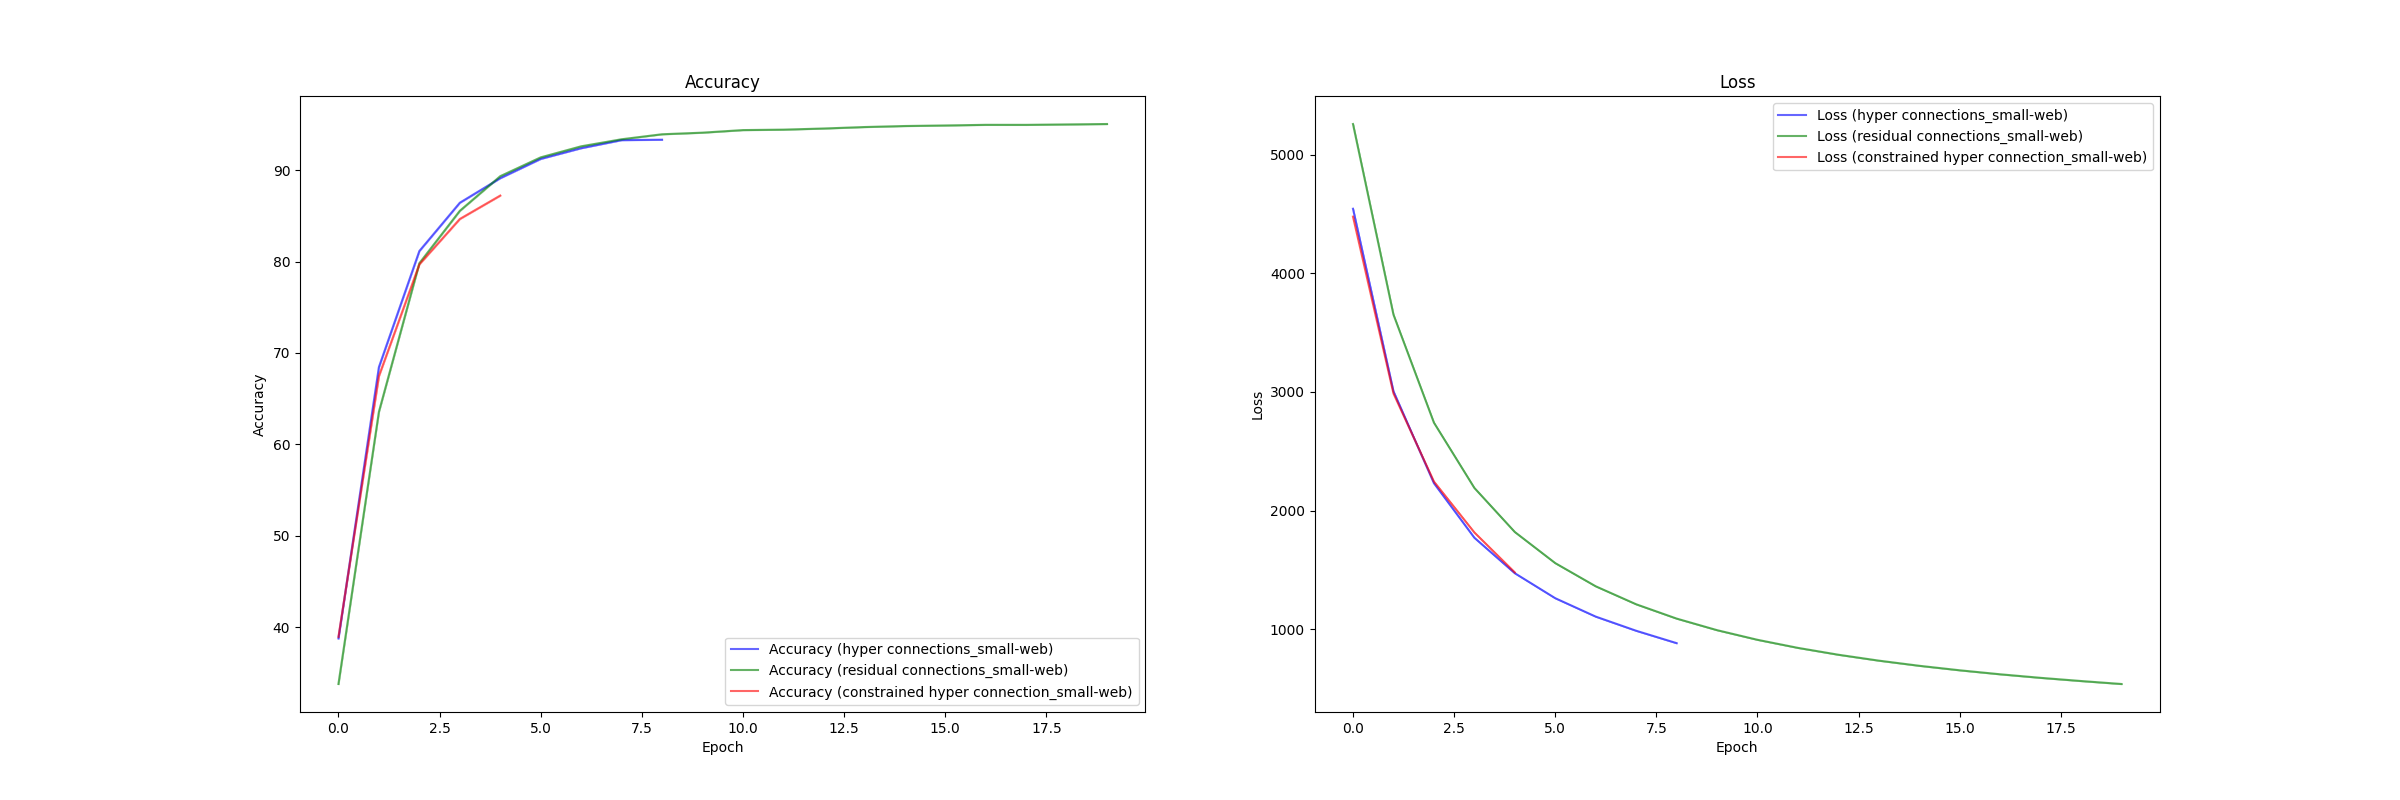
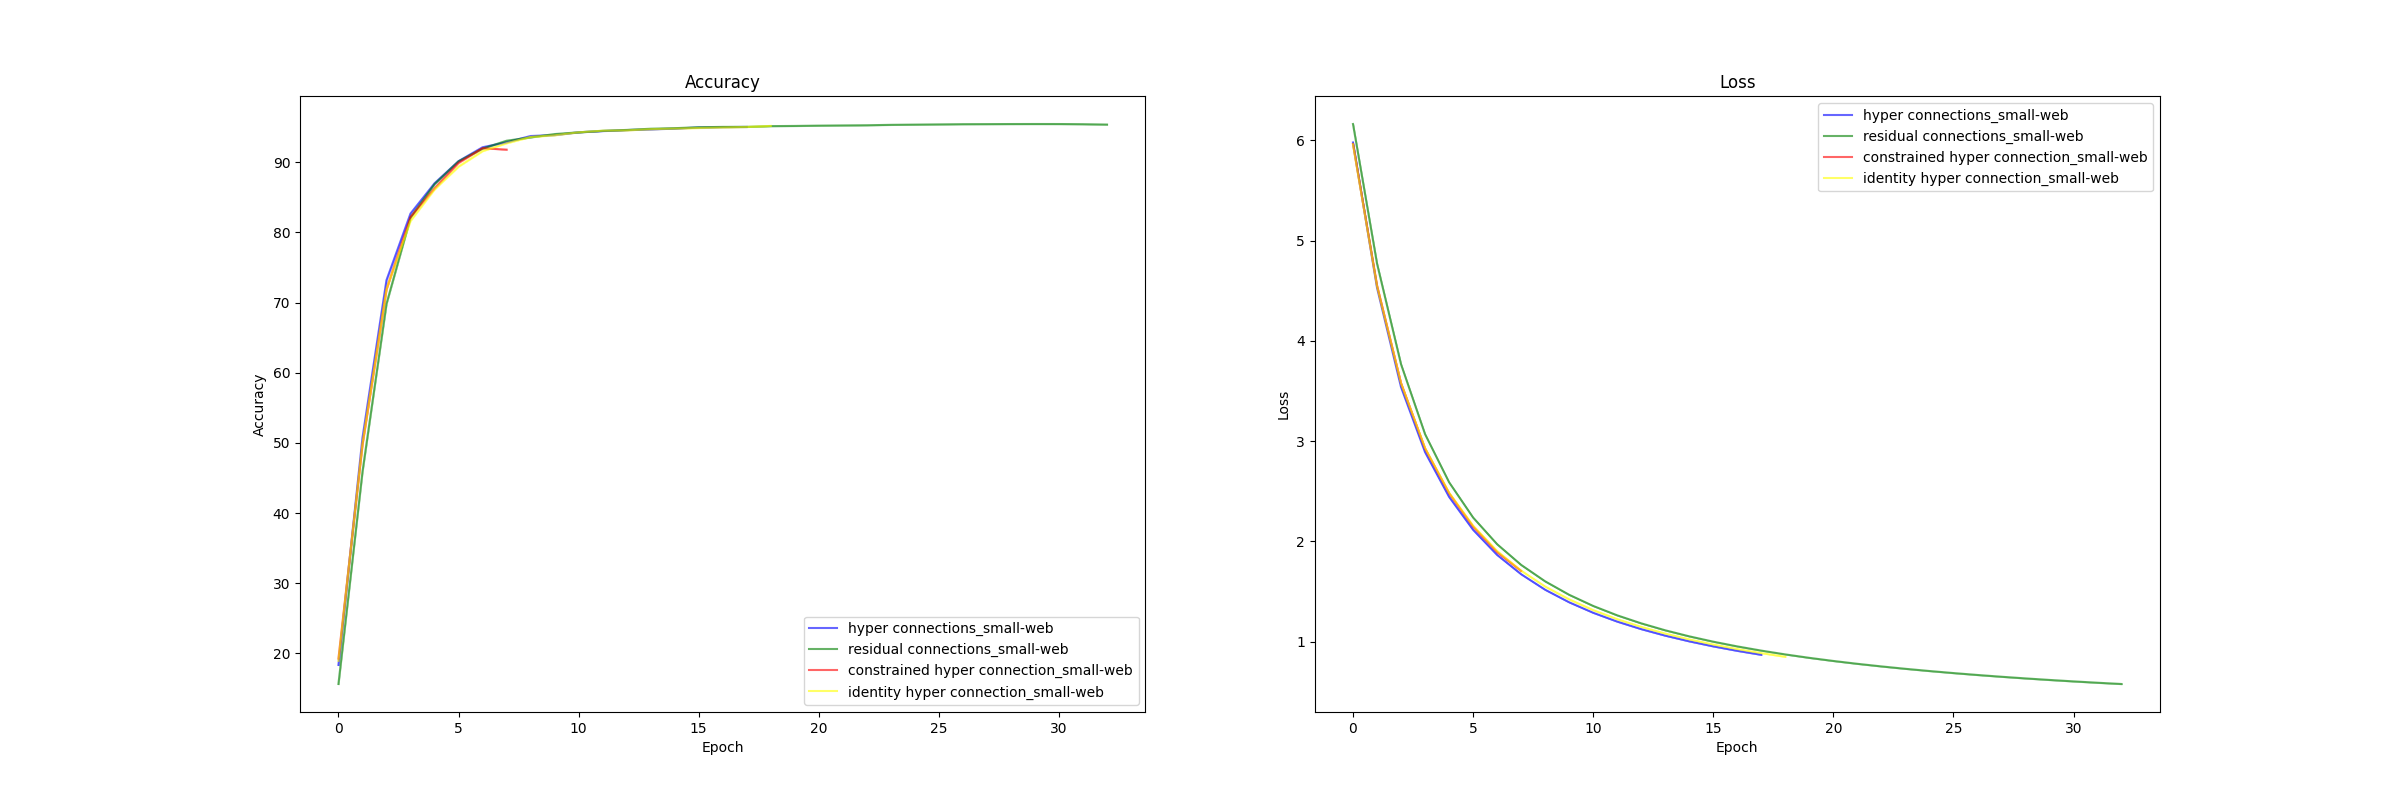
mHC without the m

diff --git a/nlp/transformer-hacks/experiments.py b/nlp/transformer-hacks/experiments.py
@@ -33,6 +33,8 @@ import torch
 from utils.web_dataloader import WebDataloader
 from dotenv import load_dotenv
 from torch.distributed.fsdp import FullyShardedDataParallel as FSDP
+from torch.distributed.fsdp.wrap import size_based_auto_wrap_policy
+from functools import partial
 from torch.nn.parallel import DistributedDataParallel as DDP
 import torch.distributed as dist
 from dataclasses import dataclass
@@ -64,15 +66,20 @@ IS_RUNNING_DISTRIBUTED = "MASTER_ADDR" in os.environ
 DISTRIBUTED_STRATEGY = os.environ.get("PARALLEL_STRATEGY", "DDP")  # .lower()
 NUM_PROCESSES = int(os.environ.get("NUM_PROCESS", 8))
 USE_GRAD_SCALER = bool(int(os.environ.get("USE_GRAD_SCALER", "1")) == "1")
-TRAINING_TIME_MINUTES = int(os.environ.get("TRAINING_TIME_MINUTES", "180"))
+TRAINING_TIME_MINUTES = int(os.environ.get("TRAINING_TIME_MINUTES", "60"))
 DEBUG = int(os.environ.get("DEBUG", "0")) == 1
+BATCH_SIZE = os.environ.get("BATCH_SIZE", None)
 
-EPOCHS = 10_000
+EPOCHS = int(os.environ.get("NUM_EPOCHS", 10_000))
 SAMPLE_SIZE = 1
 LEARNING_RATE = 3e-4
 
 rank = int(os.environ.get("RANK", 0))
 world_size = int(os.environ.get("WORLD_SIZE", 1))
+
+
+def _batch_size(default: int) -> int:
+    return int(BATCH_SIZE) if BATCH_SIZE is not None else default
 
 
 TARGET_DATASET = os.environ.get("TARGET_DATASET", "small-web").lower()
@@ -82,98 +89,98 @@ NAMED_DATASETS = {
         WebDataloader(
             os.environ["WEB_DATALOADER"],
             "satoshi-whitepaper",
-            batch_size=256,
+            batch_size=_batch_size(256),
             rank=rank,
             world_size=world_size,
         ),
         WebDataloader(
             os.environ["WEB_DATALOADER"],
             "smedium-web-256",
-            batch_size=110,
+            batch_size=_batch_size(110),
             rank=rank,
             world_size=world_size,
         ),
         WebDataloader(
             os.environ["WEB_DATALOADER"],
             "medium-web-256-v2",
-            batch_size=32,
+            batch_size=_batch_size(32),
             rank=rank,
             world_size=world_size,
         ),
         WebDataloader(
             os.environ["WEB_DATALOADER"],
             "small-web-1024",
-            batch_size=8,
+            batch_size=_batch_size(8),
             rank=rank,
             world_size=world_size,
         ),
         WebDataloader(
             os.environ["WEB_DATALOADER"],
             "small-web",
-            batch_size=256,
+            batch_size=_batch_size(256),
             rank=rank,
             world_size=world_size,
         ),
         WebDataloader(
             os.environ["WEB_DATALOADER"],
             "medium-web",
-            batch_size=1024,
+            batch_size=_batch_size(1024),
             rank=rank,
             world_size=world_size,
         ),
         WebDataloader(
             os.environ["WEB_DATALOADER"],
             "medium-512-web",
-            batch_size=64,
+            batch_size=_batch_size(64),
             rank=rank,
             world_size=world_size,
         ),
         WebDataloader(
             os.environ["WEB_DATALOADER"],
             "smoltalk-256",
-            batch_size=110,
+            batch_size=_batch_size(110),
             rank=rank,
             world_size=world_size,
         ),
         WebDataloader(
             os.environ["WEB_DATALOADER"],
             "self-oss-instruct-sc2-H4-256",
-            batch_size=110,
+            batch_size=_batch_size(110),
             rank=rank,
             world_size=world_size,
         ),
         WebDataloader(
             os.environ["WEB_DATALOADER"],
             "everyday-conversations-256",
-            batch_size=110,
+            batch_size=_batch_size(110),
             rank=rank,
             world_size=world_size,
         ),
         WebDataloader(
             os.environ["WEB_DATALOADER"],
             "medium-clean-web-256",
-            batch_size=32,
+            batch_size=_batch_size(32),
             rank=rank,
             world_size=world_size,
         ),
         WebDataloader(
             os.environ["WEB_DATALOADER"],
             "large-clean-web-256",
-            batch_size=32,
+            batch_size=_batch_size(32),
             rank=rank,
             world_size=world_size,
         ),
         WebDataloader(
             os.environ["WEB_DATALOADER"],
             "opcode-tokens-256",
-            batch_size=32,
+            batch_size=_batch_size(32),
             rank=rank,
             world_size=world_size,
         ),
         WebDataloader(
             os.environ["WEB_DATALOADER"],
             "fineweb-256",
-            batch_size=32,
+            batch_size=_batch_size(32),
             rank=rank,
             world_size=world_size,
         ),
@@ -347,7 +354,8 @@ class ExperimentDistributed:
             model = DDP(model, device_ids=[dist.get_rank()])
             print("Using DDP for distributed training")
         elif DISTRIBUTED_STRATEGY == "FDSP":
-            model = FSDP(model, device_ids=[dist.get_rank()])
+            wrap_policy = partial(size_based_auto_wrap_policy, min_num_params=1_000)
+            model = FSDP(model, device_id=dist.get_rank(), auto_wrap_policy=wrap_policy)
             print("Using FSDP for distributed training")
         else:
             raise Exception(f"Unknown DISTRIBUTED_STRATEGY = {DISTRIBUTED_STRATEGY}")
@@ -578,6 +586,10 @@ def residual_connections():
             (
                 "constrained hyper connection",
                 TransformerLayerType.OLMO_CONSTRAINED_HYPER_CONNECTIONS,
+            ),
+            (
+                "identity hyper connection",
+                TransformerLayerType.OLMO_IDENTITY_HYPER_CONNECTIONS,
             ),
         ]:
             config = create_default_config(
@@ -1212,7 +1224,7 @@ def long_running_training_v2():
 
 
 def train():
-    # residual_connections()
+    residual_connections()
     # long_running_training()
     # lr_sweep()
     # lr_sweep_v2()
@@ -1220,7 +1232,7 @@ def train():
     # layer_scaling()
     # embedding_scaling()
     # ff_scaling()
-    long_running_training_v2()
+    # long_running_training_v2()
     # continue_training_from_checkpoint()
     # fine_tuning()
     # benchmark()

diff --git a/nlp/transformer-hacks/training/model.py b/nlp/transformer-hacks/training/model.py
@@ -39,6 +39,7 @@ class TransformerLayerType(Enum):
     OLMO = 9
     OLMO_HYPER_CONNECTIONS = 10
     OLMO_CONSTRAINED_HYPER_CONNECTIONS = 11
+    OLMO_IDENTITY_HYPER_CONNECTIONS = 12
 
 
 class NormalizationLayerType(Enum):
@@ -338,11 +339,11 @@ class SimpleAttentionAtHomeTransformerLayer(nn.Module):
 
 # https://arxiv.org/pdf/2512.24880
 # Deepseek builds on top of the hyperConnection, but adds a step to normalize
-def sinkhorn(H, iterations=20):
+def sinkhorn(H, iterations=20, eps=1e-8):
     P = torch.exp(H)
     for _ in range(iterations):
-        P = P / P.sum(dim=-1, keepdim=True)
-        P = P / P.sum(dim=-2, keepdim=True)
+        P = P / (P.sum(dim=-1, keepdim=True) + eps)
+        P = P / (P.sum(dim=-2, keepdim=True) + eps)
     return P
 
 
@@ -375,6 +376,36 @@ class mHyperConnection(nn.Module):
             "nm,bsmd->bsnd", A_r, H
         )
 
+        return out
+
+
+# https://zhuanlan.zhihu.com/p/2010852389670908320
+# https://x.com/YouJiacheng/status/2027445155587141997
+# https://x.com/unakar666/status/2027566637319393412
+# https://x.com/part_harry_/status/2007070327415902268
+class IdentityHyperConnection(nn.Module):
+    def __init__(self, n: int = 4, layer_idx: int = 0):
+        super().__init__()
+        self.n = n
+        alpha_m = torch.zeros(n, 1)
+        alpha_m[layer_idx % n, 0] = 1.0
+        self.alpha_m = nn.Parameter(alpha_m)
+        self.beta = nn.Parameter(torch.ones(n))
+        # Fixed identity for A_r (not learnable)
+        self.register_buffer("A_r", torch.eye(n))
+
+    def forward(self, H: torch.Tensor, layer_fn) -> torch.Tensor:
+        # H: (B, S, n, D)
+        # Weighted sum of copies -> layer input
+        # (B, S, D)
+        h_in = torch.einsum("bsnd,nk->bskd", H, self.alpha_m).squeeze(2)
+        h_out = layer_fn(h_in)
+        # Bound beta with sigmoid
+        beta = torch.sigmoid(self.beta)
+        # Distribute output + residual (A_r is fixed identity)
+        out = h_out.unsqueeze(2) * beta.view(1, 1, self.n, 1) + torch.einsum(
+            "nm,bsmd->bsnd", self.A_r, H
+        )
         return out
 
 
@@ -459,7 +490,13 @@ class OlmoTransformerLayer(nn.Module):
 
 
 class OlmoTransformerLayerHyperConnectivity(nn.Module):
-    def __init__(self, config: Config, layer_idx: int, use_manifold_constraint=False):
+    def __init__(
+        self,
+        config: Config,
+        layer_idx: int,
+        use_manifold_constraint=False,
+        use_identity=False,
+    ):
         super().__init__()
         self.norm_1 = nn.RMSNorm(config.dim_embeddings)
         self.rope_attention = RoPEMultiheadAttention(
@@ -471,7 +508,14 @@ class OlmoTransformerLayerHyperConnectivity(nn.Module):
         self.norm_2 = nn.RMSNorm(config.dim_embeddings)
         self.linear = OlmoFeedForward(config)
 
-        if use_manifold_constraint:
+        if use_identity:
+            self.hc_attn = IdentityHyperConnection(
+                n=config.hc_n, layer_idx=layer_idx * 2
+            )
+            self.hc_mlp = IdentityHyperConnection(
+                n=config.hc_n, layer_idx=layer_idx * 2 + 1
+            )
+        elif use_manifold_constraint:
             self.hc_attn = mHyperConnection(n=config.hc_n, layer_idx=layer_idx * 2)
             self.hc_mlp = mHyperConnection(n=config.hc_n, layer_idx=layer_idx * 2 + 1)
         else:
@@ -534,6 +578,12 @@ def get_transformer_layer(config: Config, layer_idx):
     ):
         return OlmoTransformerLayerHyperConnectivity(
             config, layer_idx, use_manifold_constraint=True
+        )
+    elif (
+        config.transformer_layer == TransformerLayerType.OLMO_IDENTITY_HYPER_CONNECTIONS
+    ):
+        return OlmoTransformerLayerHyperConnectivity(
+            config, layer_idx, use_identity=True
         )
     else:
         raise Exception(f"unknown type {config.transformer_layer}")
@@ -658,6 +708,7 @@ class Model(nn.Module):
         if self.config.transformer_layer in [
             TransformerLayerType.OLMO_HYPER_CONNECTIONS,
             TransformerLayerType.OLMO_CONSTRAINED_HYPER_CONNECTIONS,
+            TransformerLayerType.OLMO_IDENTITY_HYPER_CONNECTIONS,
         ]:
             x = self.embeddings(x)
             H = x.unsqueeze(2).expand(-1, -1, self.config.hc_n, -1).contiguous()

diff --git a/nlp/transformer-hacks/utils/plot.py b/nlp/transformer-hacks/utils/plot.py
@@ -1,3 +1,5 @@
+import warnings
+warnings.filterwarnings("ignore", message="Unable to import Axes3D")
 import matplotlib.pyplot as plt
 import numpy as np
 from typing import Dict, List

diff --git a/notes/rants/timeline.md b/notes/rants/timeline.md
@@ -180,5 +180,37 @@ You can also very easily see that this is a problem as none of the models does w
 - 
 
 
-
-
+### Update from 2026
+- Many things have changed over the last few months.
+  - People are predicting 
+    - https://x.com/AISafetyMemes/status/2024520911043416441
+    - https://x.com/elonmusk/status/2025124840806514916
+    - https://ai-2027.com/
+    - https://x.com/banteg/status/2026056669843669184
+    - https://x.com/potuz_eth/status/2028627381901005250
+  - Dates
+    - https://x.com/AISafetyMemes/status/2023003611459203308
+    - https://x.com/swyx/status/2023246499866673195
+    - https://x.com/fchollet/status/2022090111832535354
+    - https://x.com/ChrSzegedy/status/2022187816172892424
+    - https://x.com/tetsuoai/status/2027202820919992734
+      - Work will be optional in 10 years?
+- I'm still not so sure (at least not over the next two years)
+  - I think models are going to keep getting better
+  - They will lack human agency
+  - They will lack the ability to be more critical of the requests of the user, they will act on inputs, but probably not be as good at thinking outside the box on the input.
+- That said, I'm also thinking about the fact that predictions have been very wrong in the past
+  - https://x.com/gordic_aleksa/status/2021625792288141620
+  - https://x.com/anupam_bhoi/status/2021774474861748482
+  - https://x.com/siddharthvader_/status/2021708306050584862
+- And then also this which also shows that all the hype doesn't directly correlate to real world impact
+  - https://x.com/fchollet/status/2022063228399005931
+  - https://x.com/ChShersh/status/2020484568860484055
+  - https://x.com/imnottanmay/status/2019543570013921631
+  - https://x.com/fchollet/status/2019571942148472899
+  - https://x.com/fede_intern/status/2017604878575587421
+  - (to be seen) https://x.com/FleetmasterE/status/2014691020769001693
+  - https://x.com/joranhonig/status/2022657343574389094
+    - LLM know so much, but suck at things like Chess.
+- There is also the general [prediction power of people](https://x.com/fchollet/status/2020497629290148139) which is kinda interesting.
+- 

diff --git a/notes/nlp.md b/notes/nlp.md
@@ -152,3 +152,18 @@ def sinkhorn(H, iterations=20):
     return P
 ```
 
+### Response
+- There has been some threads on Twitter on the need for the manifold constraint at all.
+  - https://x.com/part_harry_/status/2007070327415902268
+  - https://x.com/YouJiacheng/status/2027445155587141997
+- We did some experiments on this also in [residual](../nlp/transformer-hacks/plots/small-web/residual_connections.png)
+
+
+## [Perplexity Cannot Always Tell Right from Wrong](https://arxiv.org/pdf/2601.22950)
+- Perplexity = How surprised is the model on some given input?
+  - https://huggingface.co/docs/transformers/perplexity
+  - $\exp\sum_{k \in C} -p_k \log q_k$
+  - $\text{pplx}_T(b) = -\frac{1}{n} \sum_{k=1}^{n} \log T(b_1 \cdots b_n | o_1 \cdots o_{k-1})(b_k)$
+- Because Perplexity is the average loss across all tokens, one failure prediction doesn't impact the loss as it should. There is an asymmetry making it so that a more confident, but less accurate model can beat a more accurate, but less confident model on the perplexity metric.
+- 
+

diff --git a/nlp/transformer-hacks/readme.md b/nlp/transformer-hacks/readme.md
@@ -11,6 +11,7 @@ Meant to be transformer version of [gan-hacks](/gan/gan-hacks)
 - https://www.tylerromero.com/posts/nanogpt-speedrun-worklog/#21-architectural-changes-and-training-tweaks
 - https://huggingface.co/spaces/HuggingFaceTB/smol-training-playbook#improving-stability
 - https://x.com/0xalpo/status/2004845606465122578
+- https://github.com/karpathy/nanochat/discussions/481
 
 ## Parallelism
 ### Model parallelism
@@ -18,12 +19,12 @@ Meant to be transformer version of [gan-hacks](/gan/gan-hacks)
 # Install for torch.compile
 sudo apt-get install nvidia-cuda-toolkit -y
 # Split the model 
-DISTRIBUTED_STRATEGY=FSDP torchrun --nproc_per_node=4 experiments.py
+PARALLEL_STRATEGY=FDSP torchrun --nproc_per_node=4 experiments.py
 ```
 
 ### Data parallelism
 ```bash
-DISTRIBUTED_STRATEGY=DDP torchrun --nproc_per_node=4 experiments.py
+PARALLEL_STRATEGY=DDP torchrun --nproc_per_node=4 experiments.py
 ```
 
 ## Whisper
